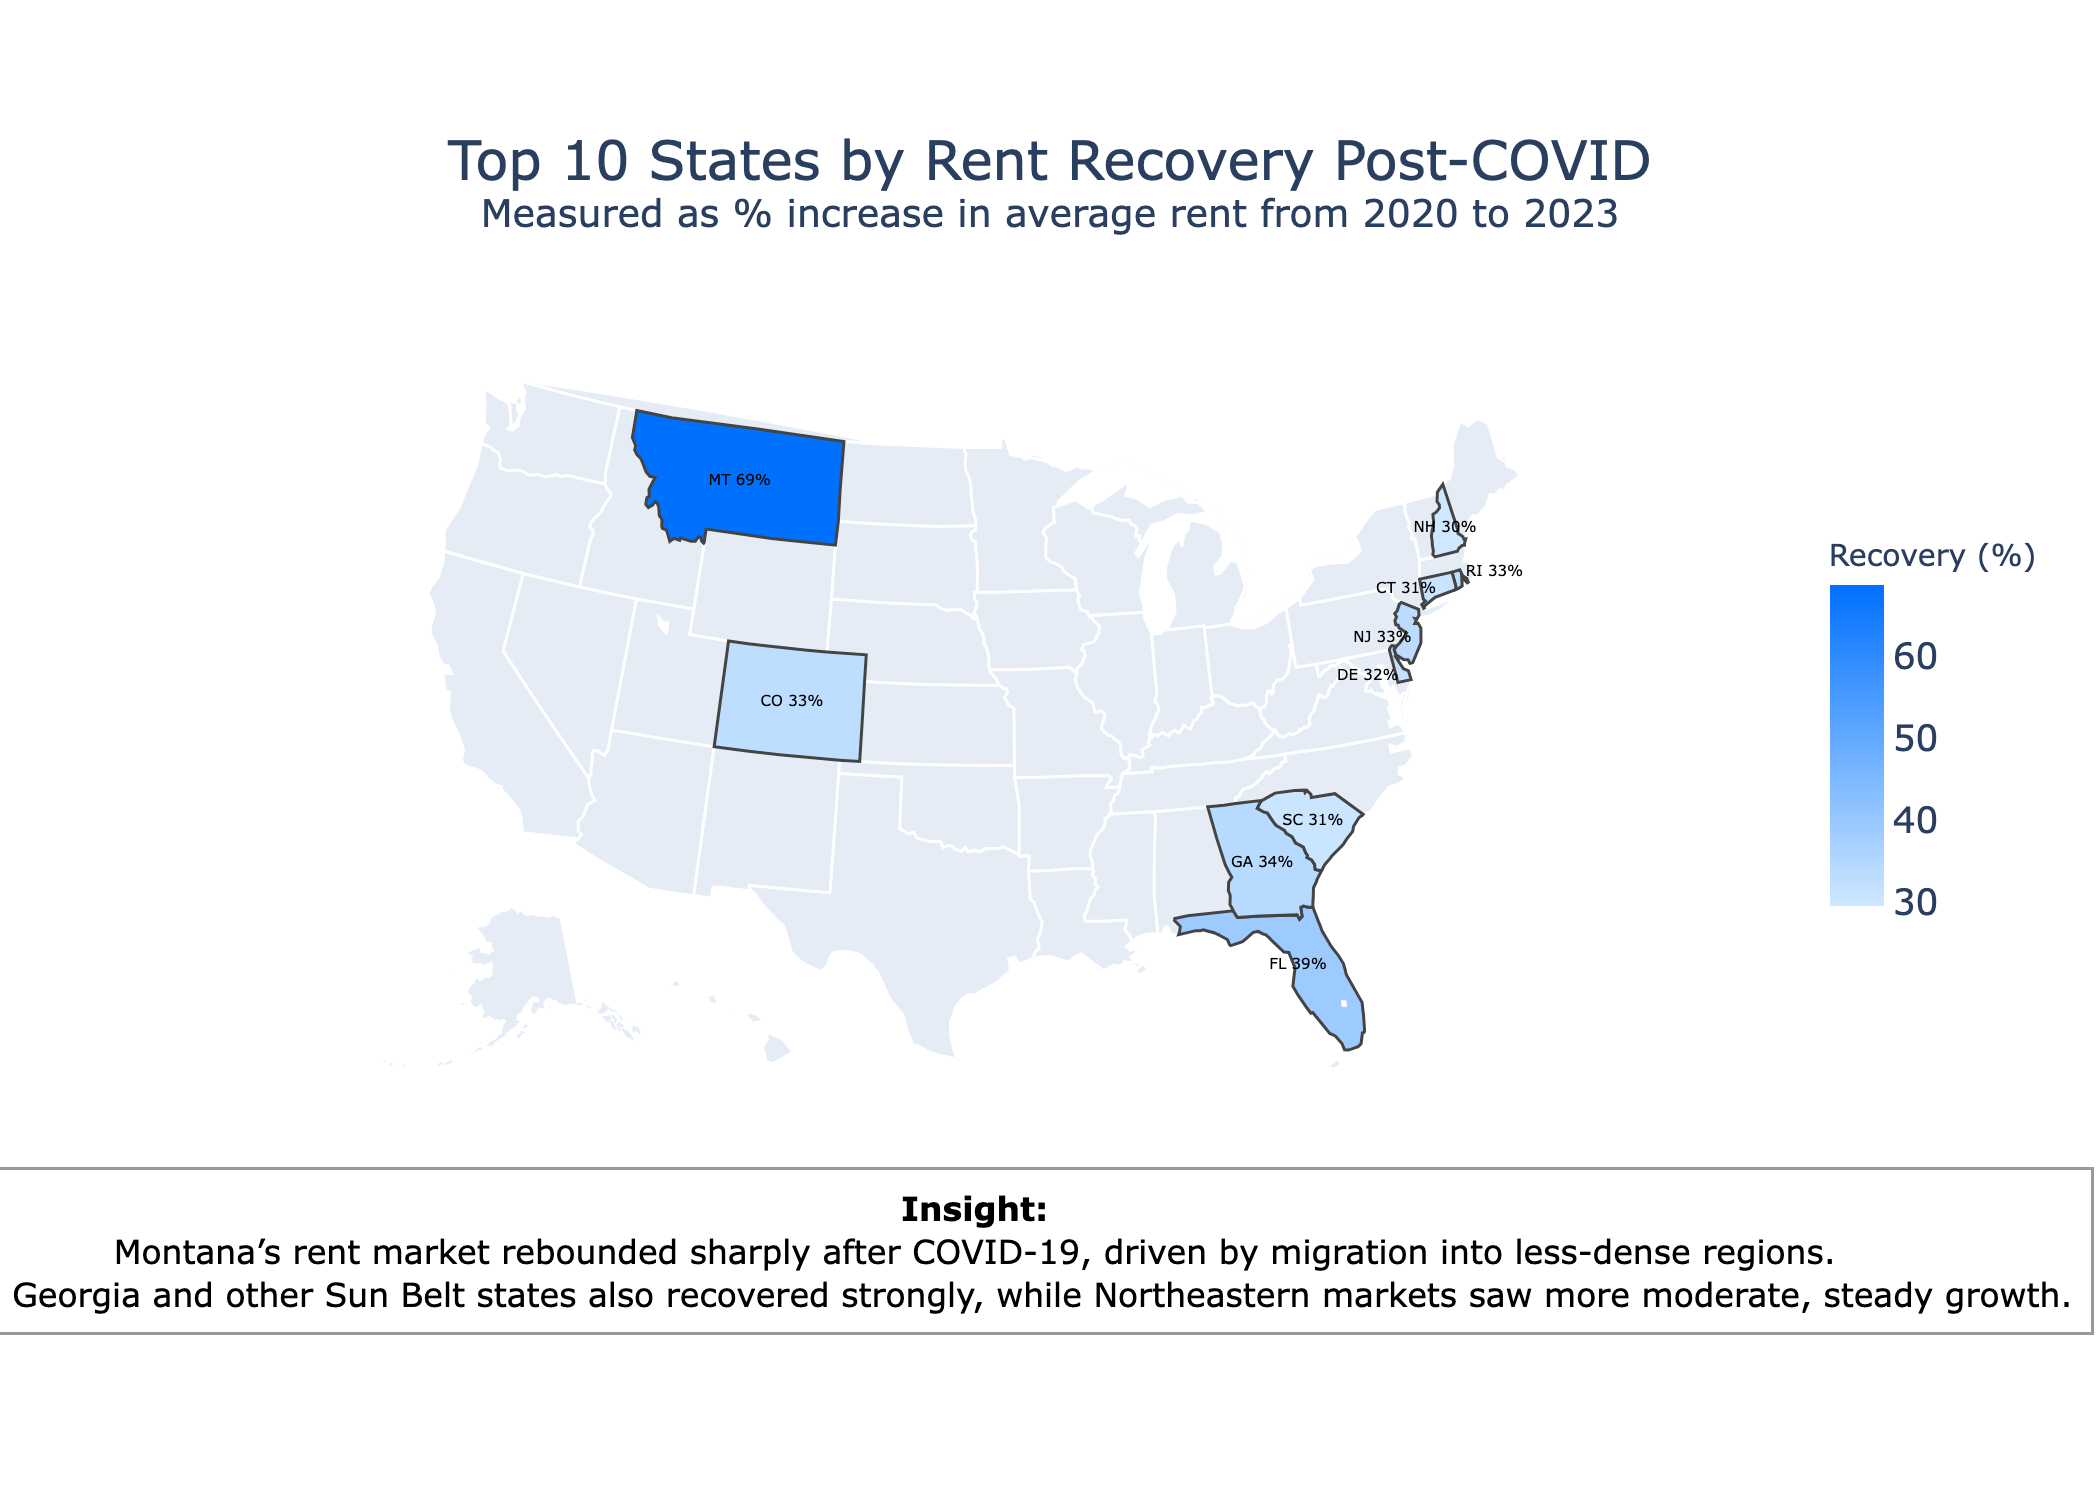
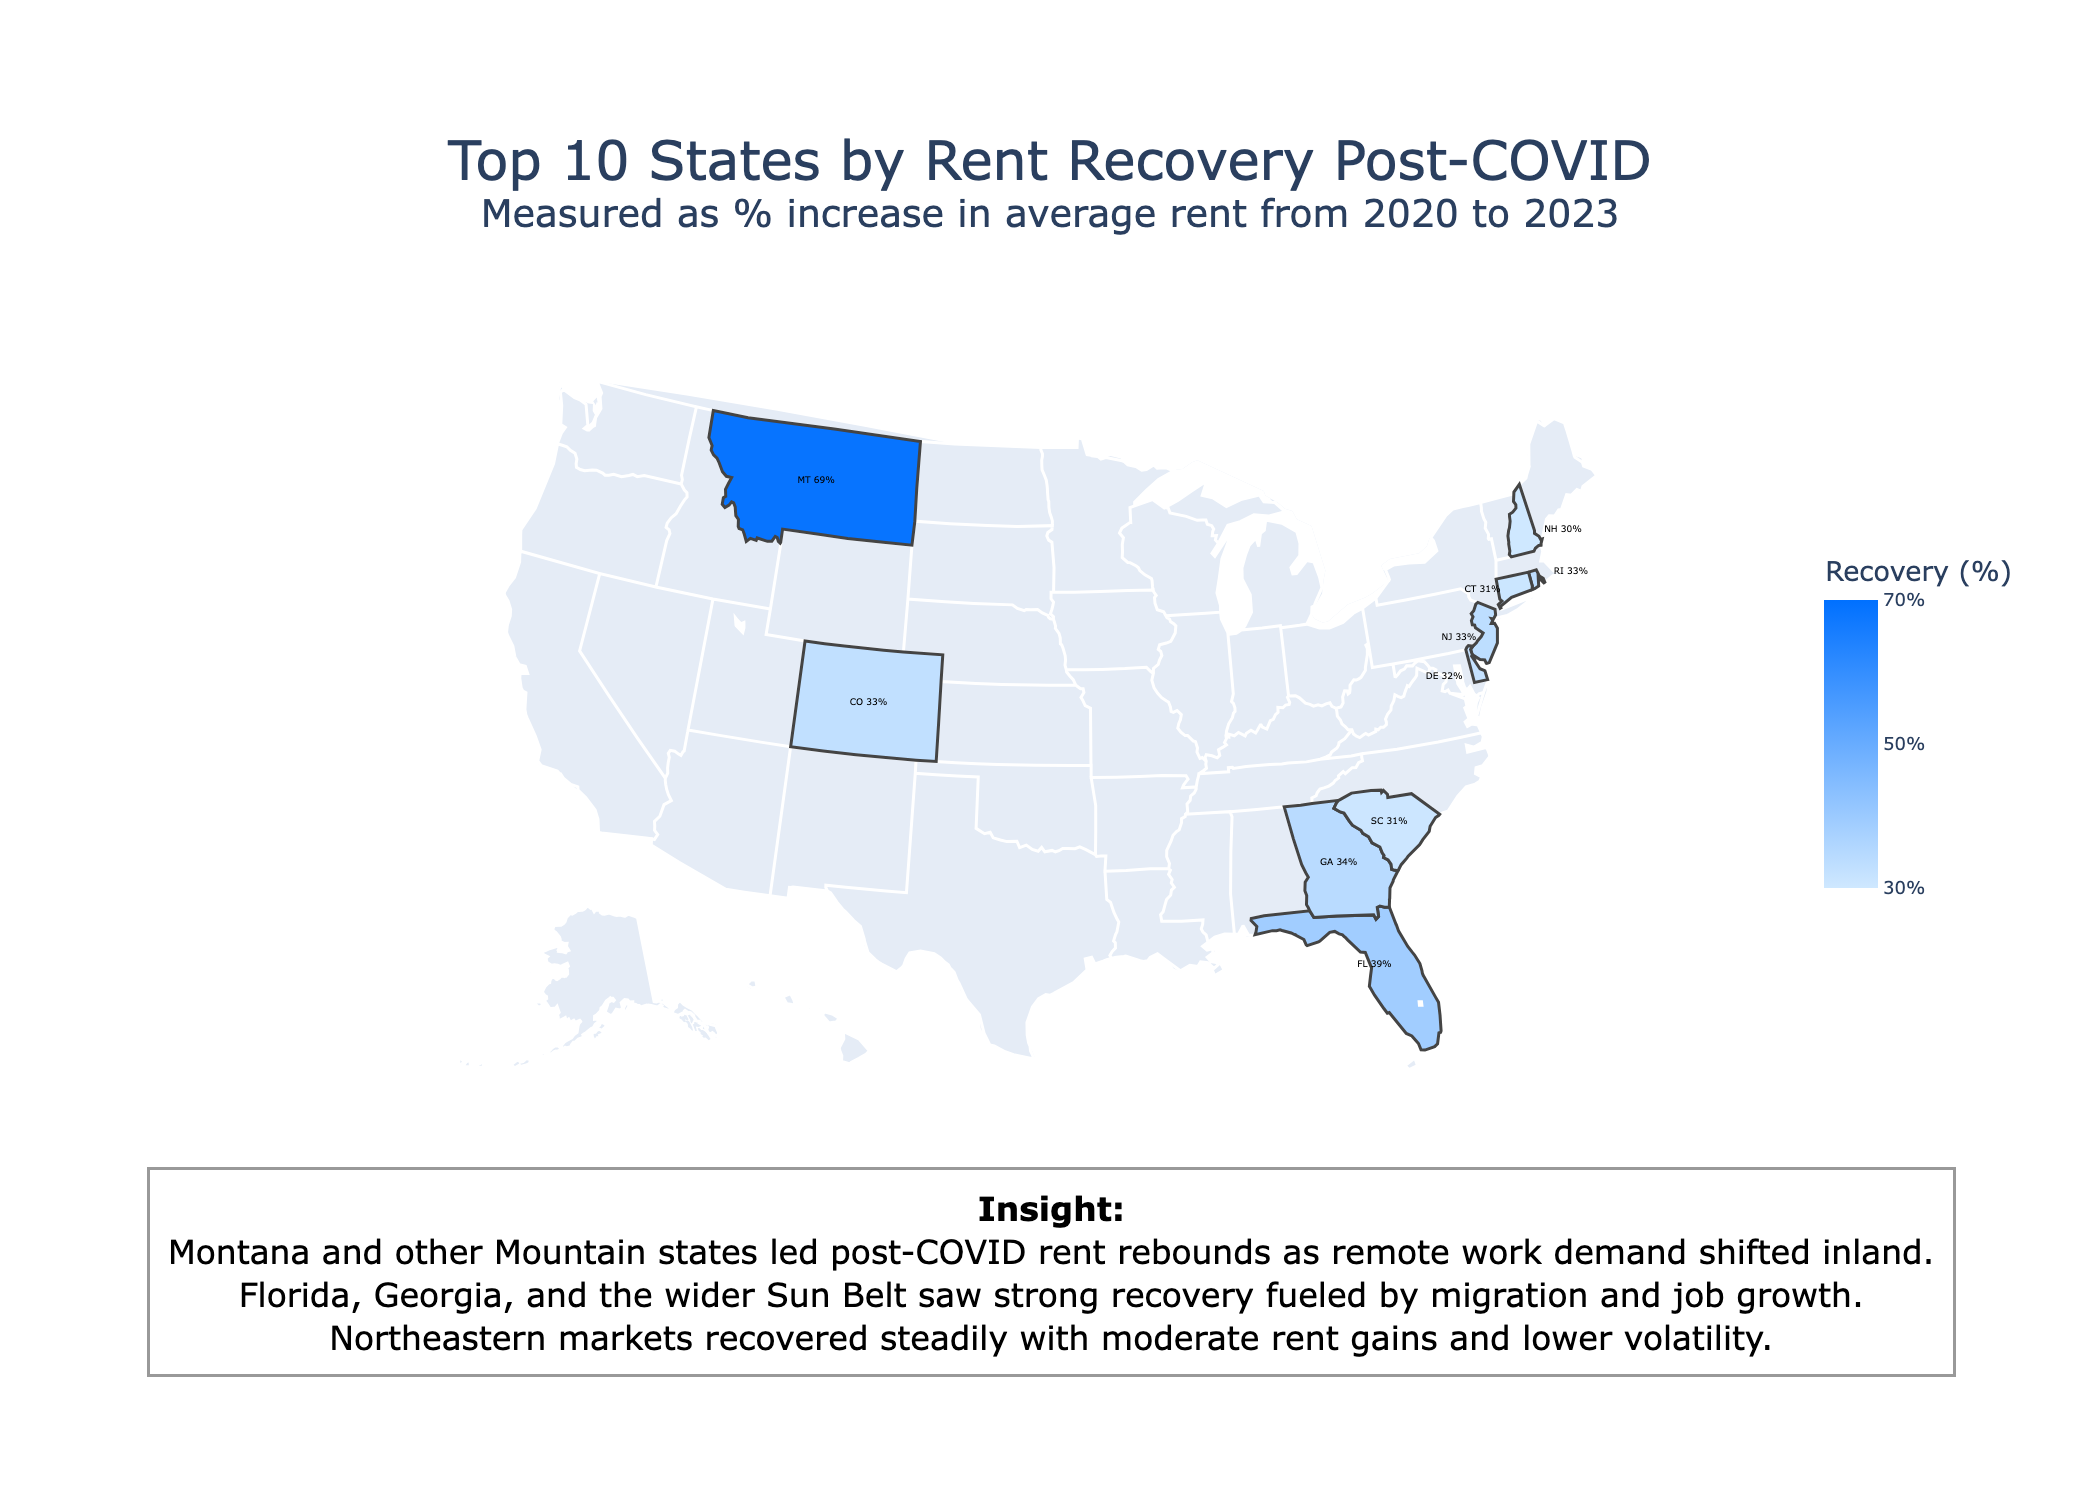
Refine Q6 map layout and colorbar

diff --git a/02_zillow_rent_value_index_analysis/python/q6_top_10_states_post_covid_recovery.py b/02_zillow_rent_value_index_analysis/python/q6_top_10_states_post_covid_recovery.py
@@ -21,6 +21,7 @@ STATE_CENTROIDS = {
     "CT": (-72.7, 41.6),
     "NJ": (-74.5, 40.1),
     "DE": (-75.5, 39.0),
+    "NH": (-71.7, 43.2),
 }
 
 CUSTOM_LABEL_OFFSETS = {
@@ -28,6 +29,7 @@ CUSTOM_LABEL_OFFSETS = {
     "CT": (-1.6, 0.2),
     "NJ": (-1.5, 0.1),
     "DE": (-1.6, -0.1),
+    "NH": (2.2, 0.0),
 }
 
 
@@ -78,7 +80,7 @@ def build_map(top10: pd.DataFrame) -> None:
                     lat=[lat + offset_lat],
                     text=label,
                     mode="text",
-                    textfont=dict(size=5, color="black"),
+                    textfont=dict(size=3, color="black"),
                     showlegend=False,
                 )
             )
@@ -88,22 +90,27 @@ def build_map(top10: pd.DataFrame) -> None:
                 locationmode="USA-states",
                 text=label,
                 mode="text",
-                textfont=dict(size=5, color="black"),
+                textfont=dict(size=3, color="black"),
                 showlegend=False,
             )
 
     fig.update_layout(
-        width=1200,
+        width=1600,
         height=800,
         title={"font": {"size": 18}, "x": 0.5, "xanchor": "center"},
         font={"size": 11},
+        coloraxis=dict(cmin=30, cmax=70),
         coloraxis_colorbar={
-            "title": {"text": "Recovery (%)", "font": {"size": 10}},
-            "tickfont": {"size": 12},
-            "len": 0.6,
+            "title": {"text": "Recovery (%)", "font": {"size": 9}},
+            "tickfont": {"size": 6},
+            "len": 0.55,
             "thickness": 18,
+            "x": 1.04,
+            "xanchor": "left",
+            "tickvals": [30, 50, 70],
+            "ticktext": ["30%", "50%", "70%"],
         },
-        margin={"l": 60, "r": 80, "t": 120, "b": 140},
+        margin={"l": 120, "r": 120, "t": 120, "b": 140},
     )
 
     fig.add_annotation(
@@ -112,8 +119,9 @@ def build_map(top10: pd.DataFrame) -> None:
         xref="paper",
         yref="paper",
         text=(
-            "<b>Insight:</b><br>Montana’s rent market rebounded sharply after COVID-19, driven by migration into less-dense regions.<br>"
-            "Florida, Georgia and other Sun Belt states also recovered strongly, while Northeastern markets saw more moderate, steady growth."
+            "<b>Insight:</b><br>Montana and other Mountain states led post-COVID rent rebounds as remote work demand shifted inland.<br>"
+            "Florida, Georgia, and the wider Sun Belt saw strong recovery fueled by migration and job growth.<br>"
+            "Northeastern markets recovered steadily with moderate rent gains and lower volatility."
         ),
         showarrow=False,
         align="center",
@@ -191,9 +199,9 @@ def main() -> None:
     print(
         """
 📊 Insight:
-Montana’s rent market rebounded sharply after COVID-19, reflecting migration and housing
-demand in less-dense regions. Southeastern states like Florida and Georgia also recovered
-strongly, while Northeastern markets saw more moderate, steady growth.
+Montana and other Mountain states led post-COVID rent rebounds as remote work demand shifted inland.
+Florida, Georgia, and other Sun Belt markets posted strong gains, driven by migration and job growth.
+Northeastern states recovered steadily with moderate rent increases and lower volatility.
 """
     )
 
